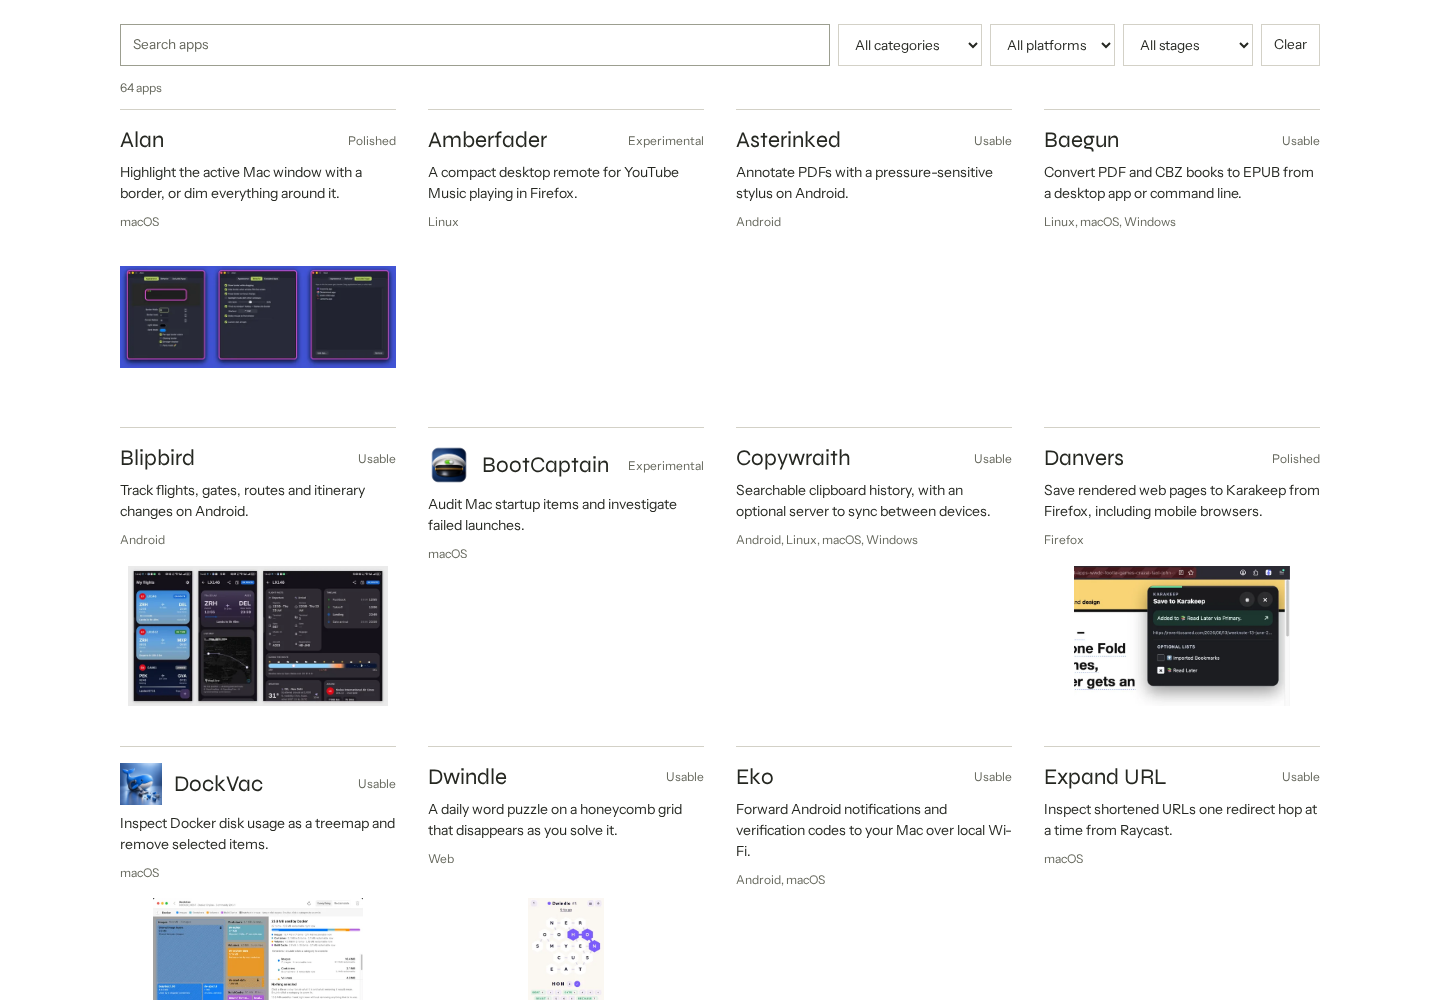
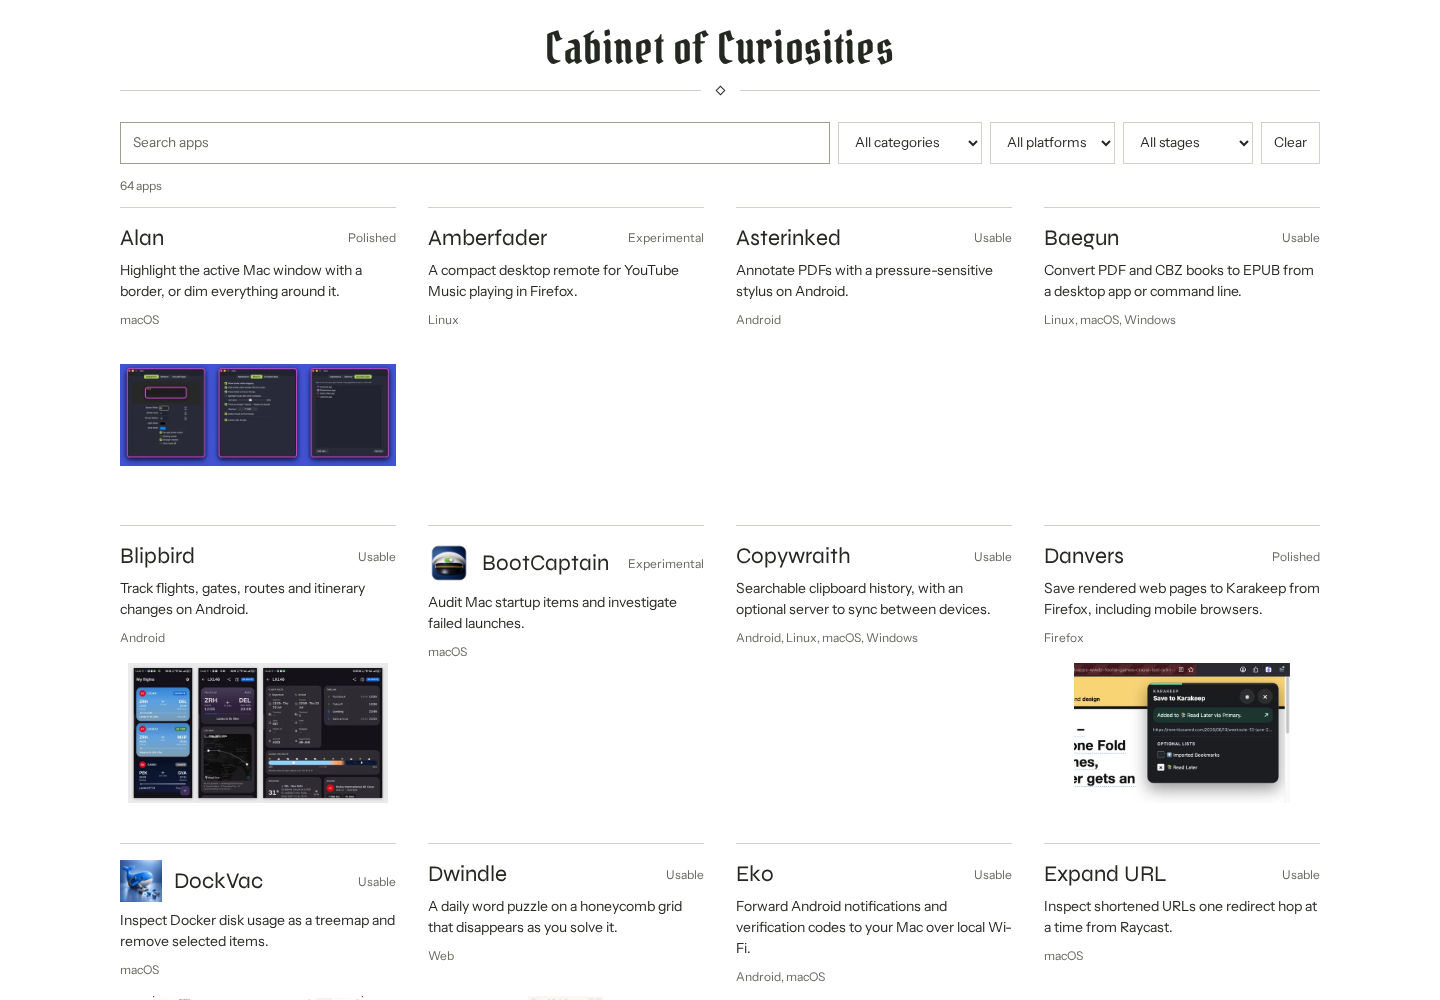
Rename the site to Cabinet of Curiosities (#17)
Give the directory a name and a restrained gothic look while keeping the
white background: a Pirata One blackletter wordmark with a CSS-drawn
diamond rule, plus a keyhole favicon. Pirata One is bundled under the
OFL with the other fonts, and the browser tests now assert the wordmark
and all three bundled fonts.

diff --git a/public/style.css b/public/style.css
@@ -8,6 +8,14 @@
 }
 
 @font-face {
+  font-family: 'Pirata One';
+  src: url('fonts/pirata-one-regular.woff2') format('woff2');
+  font-style: normal;
+  font-weight: 400;
+  font-display: swap;
+}
+
+@font-face {
   font-family: 'Instrument Sans';
   src: url('fonts/instrument-sans-variable.woff2') format('woff2');
   font-style: normal;
@@ -23,6 +31,7 @@
   --rule: #d3d1c7;
   --accent: #993c2c;
   --heading-font: 'Syne', Arial, sans-serif;
+  --wordmark-font: 'Pirata One', Georgia, serif;
   --text-font: 'Instrument Sans', Arial, sans-serif;
   color: var(--ink);
   background: var(--paper);
@@ -48,6 +57,13 @@ h1, h2 { font-family: var(--heading-font); font-weight: 400; }
 img { display: block; max-width: 100%; }
 
 .page { width: min(1200px, calc(100% - 64px)); margin-inline: auto; padding-block: 1.5rem; }
+.site-header { margin-bottom: 1.75rem; text-align: center; }
+.wordmark { font-family: var(--wordmark-font); font-weight: 400; font-size: clamp(1.75rem, 3.5vw, 2.75rem); line-height: 1.1; letter-spacing: 0.02em; }
+
+/* Diamond-tipped rule beneath the wordmark, drawn in CSS. */
+.ornament { display: flex; align-items: center; gap: 1rem; margin-top: 0.9rem; }
+.ornament::before, .ornament::after { content: ''; flex: 1; height: 1px; background: var(--rule); }
+.ornament span { width: 7px; height: 7px; border: 1px solid var(--ink); transform: rotate(45deg); }
 .skip-link { position: absolute; top: -100px; left: 1rem; background: var(--paper); padding: 0.75rem; z-index: 1; }
 .skip-link:focus { top: 1rem; }
 .filters { display: flex; flex-wrap: wrap; gap: 0.5rem; }

diff --git a/public/fonts/README.md b/public/fonts/README.md
@@ -1,17 +1,20 @@
 # Bundled fonts
 
-Syne is used for headings; Instrument Sans is used for body text and controls.
-Both are self-hosted variable WOFF2 fonts, with the full upstream character sets.
-No font request goes to Google at runtime or during site generation.
+Pirata One sets the site wordmark, Syne is used for headings and Instrument Sans
+is used for body text and controls. All are self-hosted WOFF2 fonts, with the
+full upstream character sets. No font request goes to Google at runtime or
+during site generation.
 
 | File | Weights | Source |
 |---|---|---|
+| `pirata-one-regular.woff2` | 400 | [`PirataOne-Regular.ttf`](https://github.com/google/fonts/blob/90abd17b4f97671435798b6147b698aa9087612f/ofl/pirataone/PirataOne-Regular.ttf) |
 | `syne-variable.woff2` | 400–800 | [`Syne[wght].ttf`](https://github.com/google/fonts/blob/8b0a1d0f5983c89bc2b93f1b5fb55f9e252744b5/ofl/syne/Syne%5Bwght%5D.ttf) |
 | `instrument-sans-variable.woff2` | 400–700 | [`InstrumentSans[wdth,wght].ttf`](https://github.com/google/fonts/blob/0b58fb370093f9a9f4ff785d94405710b79de67c/ofl/instrumentsans/InstrumentSans%5Bwdth%2Cwght%5D.ttf) |
 
 Fonts retain their SIL Open Font License 1.1, independent of the application's
-Unlicense. The copyright notices and licenses are in `OFL-syne.txt` and
-`OFL-instrument-sans.txt`; both are copied into the generated site.
+Unlicense. The copyright notices and licenses are in `OFL-pirata-one.txt`,
+`OFL-syne.txt` and `OFL-instrument-sans.txt`; all are copied into the generated
+site.
 
 The upstream TrueType fonts are converted to WOFF2 with FontTools 4.66.1, retaining
 names, glyphs, variation axes and license metadata. The generator uses the

diff --git a/AGENTS.md b/AGENTS.md
@@ -27,8 +27,8 @@
 
 ## Visual constraints
 
-Syne headings and Instrument Sans text, self-hosted under `public/fonts/`.
-White background, compact app grid, one accent. Screenshots show the apps.
+Pirata One wordmark, Syne headings and Instrument Sans text, self-hosted under
+`public/fonts/`. White background, compact app grid, one accent. Screenshots show the apps.
 No gradients, arbitrary rainbow colours, pulse badges, decorative card tabs, emoji,
 glassmorphism, generic hype, remote font dependencies, or redundant descriptions.
 Check desktop and phone screenshots after layout changes.

diff --git a/README.md b/README.md
@@ -10,8 +10,9 @@ and images. Upload it to any static web server.
 
 ![App directory preview](docs/directory.png)
 
-Headings use self-hosted Syne; text uses self-hosted Instrument Sans. Both fonts
-are bundled under SIL OFL 1.1. [Sources and licenses](public/fonts/README.md).
+The wordmark uses self-hosted Pirata One, headings use Syne, and text uses
+Instrument Sans. All fonts are bundled under SIL OFL 1.1.
+[Sources and licenses](public/fonts/README.md).
 
 ## Run
 

diff --git a/CHANGELOG.md b/CHANGELOG.md
@@ -2,6 +2,8 @@
 
 ## Unreleased
 
+- Rename the site to Cabinet of Curiosities with a blackletter wordmark, ornament rules and a keyhole favicon.
+
 - Point Hauntware download links at the published suite releases, replacing standalone repository links.
 
 - Use merged Hauntware source/docs links while retaining available standalone downloads.
